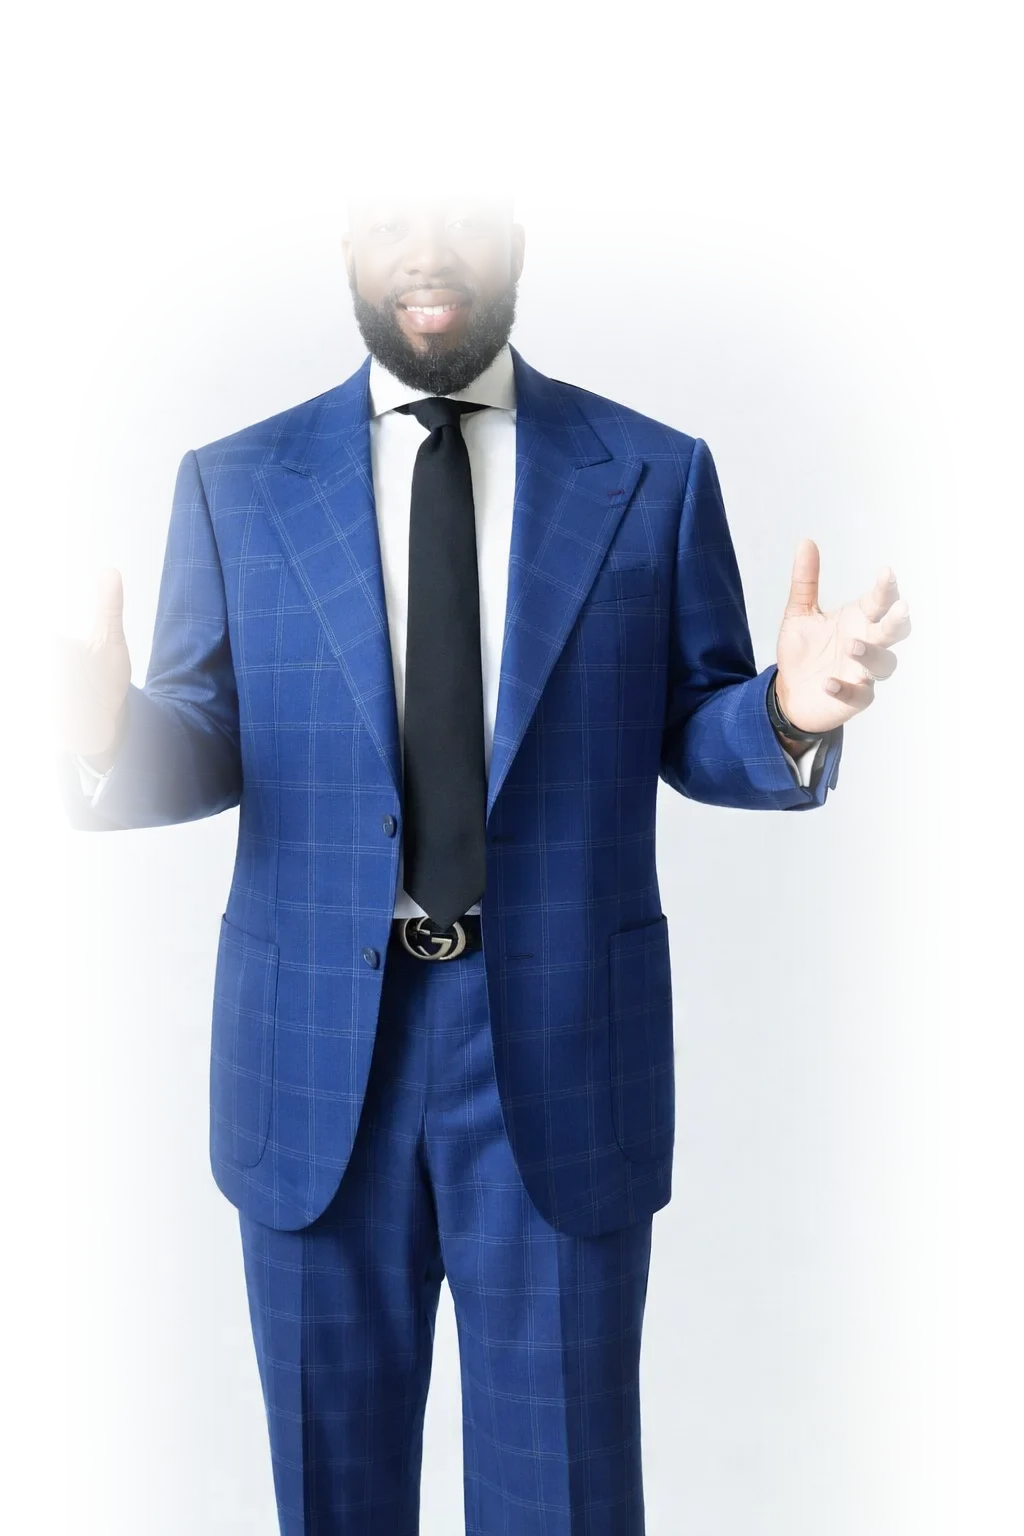
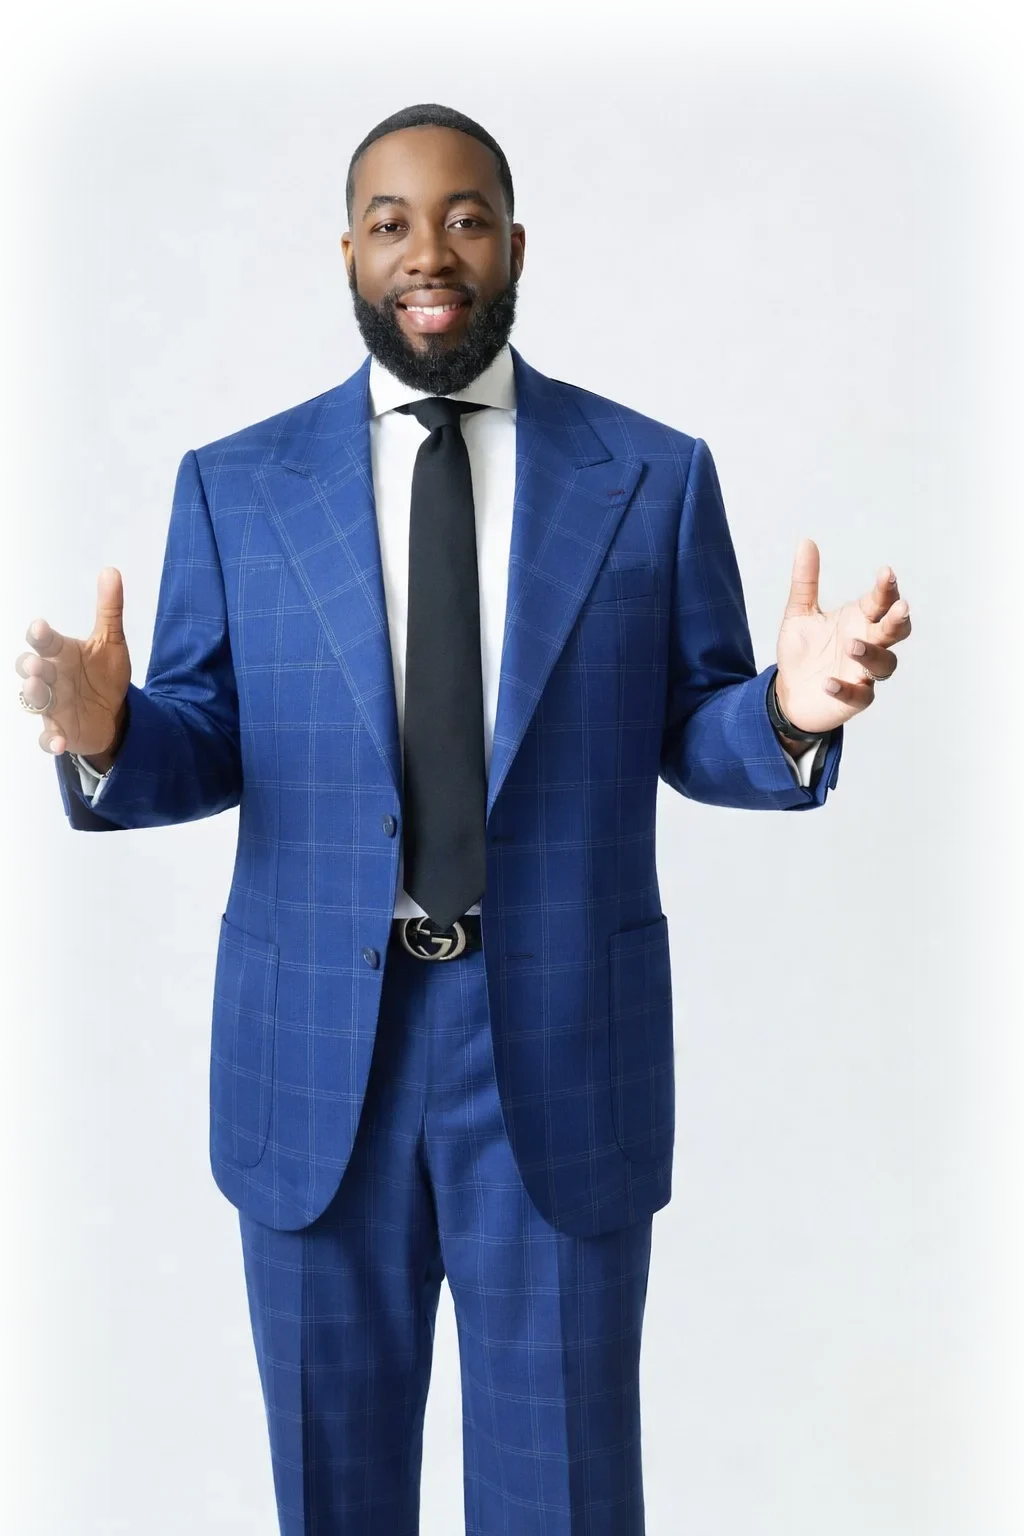
Restore the Bishop's face and hands; reposition both portraits
The previous feather used a 20% top inset and 16% side inset, which on his
frame landed directly on his head and cut off his left hand. Rebuilt his mask
with the shape pulled close to the frame (3.5% inset) and a large blur doing
the dissolving instead — verified on the pixels: alpha 253 through the face and
253 at the left hand, still 0 in the corners. First Lady Marcus's treatment is
unchanged since it was already working.

Also drops him ~20% lower so he no longer towers over her, and pushes both
right so his body runs past the viewport edge (160px past at 1440) rather than
floating inside it.

diff --git a/src/routes/about.tsx b/src/routes/about.tsx
@@ -102,7 +102,7 @@ function LeadershipBackdrop() {
         alt=""
         width={1024}
         height={1536}
-        className="leader-bleed absolute -top-[6%] -right-16 w-[32rem] lg:w-[40rem] h-auto"
+        className="leader-bleed absolute top-[14%] -right-40 w-[32rem] lg:w-[40rem] h-auto"
         loading="lazy"
       />
       <img
@@ -110,7 +110,7 @@ function LeadershipBackdrop() {
         alt=""
         width={1115}
         height={1982}
-        className="leader-bleed absolute top-[30%] right-[20rem] lg:right-[27rem] w-[21rem] lg:w-[26rem] h-auto"
+        className="leader-bleed absolute top-[26%] right-[15rem] lg:right-[21rem] w-[21rem] lg:w-[26rem] h-auto"
         loading="lazy"
       />
     </div>
